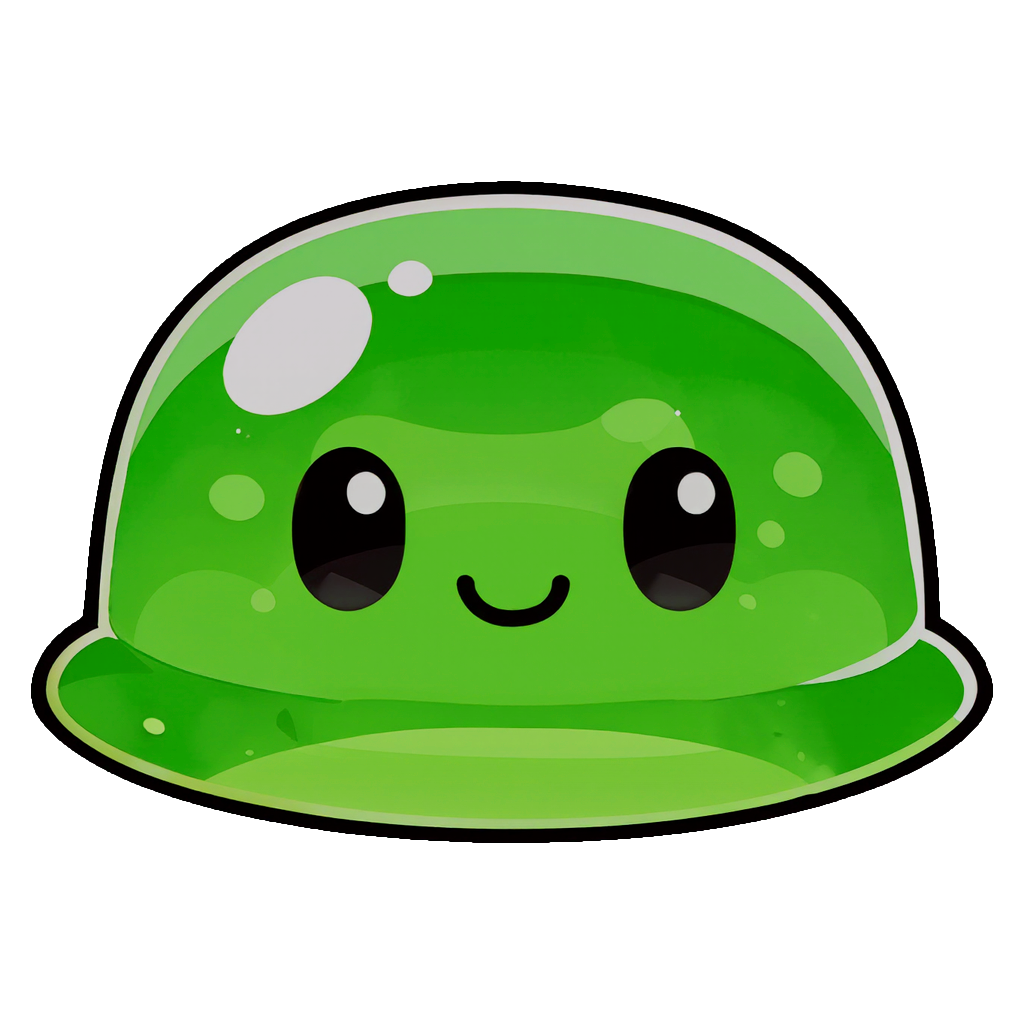
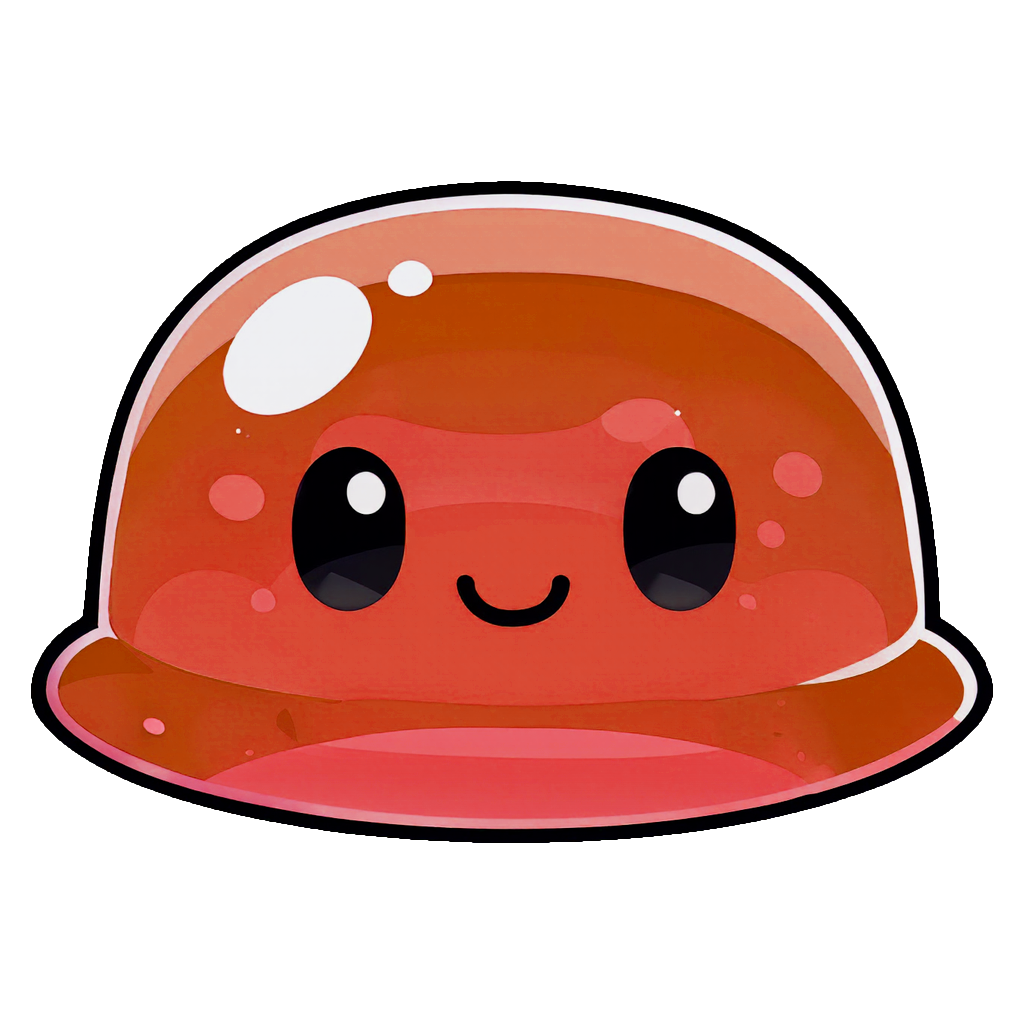
feel(round9): gold-run style forgiveness and pacing; bold dark outlines; red slime obstacle; opening no longer forced
- player hitbox 65% (crouch half), obstacle hazard capsule 70%
- lane change 0.20 s ease-out, swipe buffer 0.25 s, coyote 0.12 s
- speed: +6% step every 30 s, cap 1.7x base, smooth 1.5 m/s^2 between steps
- painted props: dark navy outline 3-8 texels, crisp alpha edge; heart/star/potion outlined
- Obs_Slime recoloured coral-red (avoid = red, collect = yellow/green)
- opening cinematic only via More > Opening (+ one-time title hint)

Claude-Session: https://claude.ai/code/session_01Y9BB1uU9eKsM2MoxCscQ6S

diff --git a/Assets/_CoastRun/Scripts/Player/PlayerController.cs b/Assets/_CoastRun/Scripts/Player/PlayerController.cs
@@ -44,6 +44,7 @@ namespace CoastRun
         private float _softHitTimer;
         private float _inputFreezeTimer;
         private float _coyoteTimer;     // grace after leaving ground where a jump still counts
+        private float _runClock;        // 14차-9: 계단식 가속용 런 경과 시간
         private float _laneFrom;        // lane easing: where the last change started
         private float _laneT = 1f;      // 0..1 progress of the current lane change
         private bool _tucking;
@@ -56,7 +57,7 @@ namespace CoastRun
         /// 레인 이동 속도(m/s, +우). 리그가 몸을 기울이는 데 쓴다.
         public float LateralVelocity { get; private set; }
         /// 레인 이동 시간 배율 (config.laneChangeSeconds × 이 값). 0.15s 기본에 2.0 → 0.30s.
-        public const float LaneEaseScale = 1.2f;   // 14차: 0.30s → 0.18s — 스와이프에 '착' 붙는 스냅
+        public const float LaneEaseScale = 1.35f;   // 14차-9: 0.20s ease-out (골드런 0.18~0.22s)
 
         private CapsuleCollider _bodyCollider;
 
@@ -125,6 +126,7 @@ namespace CoastRun
             {
                 _bodyHeight = config.standHeight;
                 _speed = config.baseSpeed;
+            _runClock = 0f;
                 _hop = _groundY + _bodyHeight * 0.5f;
             }
 
@@ -154,6 +156,7 @@ namespace CoastRun
             }
 
             _speed = config.baseSpeed;
+            _runClock = 0f;
             _bodyHeight = config.standHeight;
             _groundY = 0f;
             if (DebugGod) Invincible = true;
@@ -254,7 +257,12 @@ namespace CoastRun
             // v2 이동 모드: 스케이트보드는 기본·최대·가속 모두 ×1.3 (규칙은 동일, 반응 시간만 짧다).
             float mode = RunTuning.SpeedMul * ChapterDifficulty.SpeedMul;
             float maxSpeed = (upgrades != null ? upgrades.GetMaxSpeed() : config.maxSpeed) * mode;
-            float target = Mathf.Min(maxSpeed, _speed + config.accelPerSecond * mode * Time.deltaTime);
+            // 14차-9: 선형 가속 → 30초마다 +6% 계단(골드런/서브웨이 방식). 후반이 '반응 불가'로 치닫지 않고,
+            // 속도 상한은 기본의 1.7배(≈18.7 m/s)에서 멈춘다. 계단 사이는 1.5 m/s² 로 부드럽게 붙는다.
+            _runClock += Time.deltaTime;
+            int tier = Mathf.FloorToInt(_runClock / 30f);
+            float stepped = config.baseSpeed * mode * Mathf.Min(1.7f, 1f + 0.06f * tier);
+            float target = Mathf.Min(maxSpeed, stepped);
             if (_state == SkateState.SoftHit)
                 target = config.baseSpeed * mode * config.softHitSlowFactor;
 
@@ -263,7 +271,9 @@ namespace CoastRun
                 target *= config.tuckMultiplier;
             target *= Mathf.Max(0.1f, SpeedBoost);
 
-            _speed = Mathf.MoveTowards(_speed, target, 20f * Time.deltaTime);
+            // 계단 사이는 1.5 m/s² 로 붙고, 부스터 아이템·감속은 즉시.
+            float rate = (target > _speed && SpeedBoost <= 1.01f) ? 1.5f : 20f;
+            _speed = Mathf.MoveTowards(_speed, target, rate * Time.deltaTime);
         }
 
         private void HandleInput()
@@ -405,17 +415,19 @@ namespace CoastRun
             //
             // Crouching drops the capsule instead of shrinking it in place, so ducking
             // actually moves the body under an overhead bar.
+            // 14차-9: 골드런식 관용 — 몸 판정을 그림의 65% 폭으로, 슬라이드 중엔 절반 높이.
+            // "안 닿은 것 같은데 죽었다"가 사라지고, 니어미스가 자주 나며 손맛이 붙는다.
             if (_state == SkateState.Crouch)
             {
-                _bodyCollider.height = 0.7f;
-                _bodyCollider.center = new Vector3(0f, -0.40f, 0f);
-                _bodyCollider.radius = 0.3f;
+                _bodyCollider.height = 0.55f;
+                _bodyCollider.center = new Vector3(0f, -0.47f, 0f);
+                _bodyCollider.radius = 0.2f;
             }
             else
             {
-                _bodyCollider.height = 1.5f;
-                _bodyCollider.center = Vector3.zero;
-                _bodyCollider.radius = 0.32f;
+                _bodyCollider.height = 1.3f;
+                _bodyCollider.center = new Vector3(0f, -0.05f, 0f);
+                _bodyCollider.radius = 0.21f;
             }
         }
 
@@ -435,7 +447,8 @@ namespace CoastRun
                 float dur = Mathf.Max(0.12f, config.laneChangeSeconds * LaneEaseScale * RunTuning.LaneMul);
                 _laneT = Mathf.Min(1f, _laneT + Time.deltaTime / dur);
                 float t = _laneT;
-                float e = t * t * t * (t * (t * 6f - 15f) + 10f);   // smootherstep
+                // 14차-9: ease-out(즉시 출발, 부드럽게 도착) — 스와이프 직후 몸이 바로 움직여 반응이 '붙는다'.
+                float e = 1f - (1f - t) * (1f - t) * (1f - t);
                 _lateral = Mathf.Lerp(_laneFrom, laneTarget, e);
             }
             else
@@ -458,7 +471,7 @@ namespace CoastRun
                     _state = SkateState.Run;
                     OnLanded?.Invoke();
                 }
-                _coyoteTimer = 0.1f;
+                _coyoteTimer = 0.12f;
             }
             else if (wasGrounded && _state != SkateState.Air)
             {
@@ -494,6 +507,7 @@ namespace CoastRun
             _bodyHeight = config.standHeight;
             _hop = _bodyHeight * 0.5f;
             _speed = config.baseSpeed;
+            _runClock = 0f;
             SnapToPath();
         }
 

diff --git a/Assets/_CoastRun/Scripts/UI/MainMenuController.cs b/Assets/_CoastRun/Scripts/UI/MainMenuController.cs
@@ -66,7 +66,9 @@ namespace CoastRun
 
             BuildSplashAndUi();
             // 11차: 오프닝은 게임을 켤 때마다 타이틀 앞에서(건너뛰기 버튼). 씬 재로드(언어 전환 등)에는 안 나온다.
-            bool firstLaunch = !_openingShownThisSession;
+            // 14차-9: 오프닝 강제 재생 제거 — 첫 실행에서 1분 37초 영상은 글로벌 캐주얼 기준 이탈 1순위.
+            // 오프닝은 더보기 > 오프닝, 또는 첫 런을 마친 뒤 제안(GameSession)으로만 본다.
+            bool firstLaunch = false;
             _openingShownThisSession = true;
             if (firstLaunch && _gateArt != null)
             {
@@ -392,6 +394,14 @@ namespace CoastRun
             _moreBtn = CoastOrnate.GlassButton(ui.transform, "MoreBtn", Loc.T("더보기", "More"), new Vector2(0.5f, 0f),
                 new Vector2(btnW + gapX, rowY), new Vector2(btnW, btnH), () => { if (_ready) ToggleMore(); }, 0.4f, 26, false);
             _moreLabel = _moreBtn.GetComponentInChildren<Text>();
+            // 14차-9: 오프닝을 안 본 유저에게 한 줄 힌트(강제 재생 대신)
+            if (PlayerPrefs.GetInt("CoastRun_OpeningSeen", 0) == 0)
+            {
+                _openingHint = CreateLabel(ui.transform, "OpeningHint", Loc.T("이야기가 궁금하면  더보기 › 오프닝", "Curious about the story?  More › Opening"), 17, FontStyle.Normal,
+                    new Color(1f, 0.96f, 0.86f, 0.9f), new Vector2(0.5f, 0f), new Vector2(600f, 26f));
+                _openingHint.rectTransform.anchoredPosition = new Vector2(0f, rowY + btnH * 0.5f + 20f);
+                CoastUiArt.OutlineText(_openingHint, new Color(0.2f, 0.1f, 0.06f, 0.85f), 1.5f);
+            }
 
             // 더보기 열: 오른쪽 가장자리에서 슬라이드 인. 챕터 선택 / 노을 달리기 / 컬렉션 / 오프닝 / 설정.
             var more = new System.Collections.Generic.List<(string, System.Action)>();
@@ -402,6 +412,8 @@ namespace CoastRun
             {
                 _audio?.PlayClick();
                 _audio?.StopMenu();
+                PlayerPrefs.SetInt("CoastRun_OpeningSeen", 1);
+                if (_openingHint != null) _openingHint.gameObject.SetActive(false);
                 _ready = false;
                 OpeningCinematic.Play(() => { if (this == null) return; _audio?.PlayMenu(_cleared); _ready = true; });
             }));
@@ -870,7 +882,7 @@ namespace CoastRun
         }
 
         // 14차-8: 더보기 슬라이드
-        private Button _moreBtn; private Text _moreLabel;
+        private Button _moreBtn; private Text _moreLabel; private Text _openingHint;
         private RectTransform _moreRt; private CanvasGroup _moreCg;
         private Vector2 _moreHidden, _moreShown; private bool _moreOpen; private float _moreT;
 

diff --git a/Assets/_CoastRun/Scripts/Content/ObstacleCatalog.cs b/Assets/_CoastRun/Scripts/Content/ObstacleCatalog.cs
@@ -55,7 +55,7 @@ namespace CoastRun
                         new Vector3(0.95f, 0.48f, 0.22f), () => CoastPalette.AccentOrange, 0.32f, 0.55f, 0.55f, "Barrier", 0.9f);
                 case ObstacleId.Slime:
                     return CreateSimple(parent, worldPos, lane, "Obstacle_Slime",
-                        new Vector3(0.95f, 0.85f, 0.95f), () => new Color(0.45f, 0.82f, 0.38f), 0.42f, 0.75f, 0.9f, "Slime", 1.15f);   // 14차-8: 말랑이 1.2배(무릎 높이 이상, 코인보다 크게)
+                        new Vector3(0.95f, 0.85f, 0.95f), () => new Color(0.95f, 0.36f, 0.30f), 0.42f, 0.75f, 0.9f, "Slime", 1.15f);   // 14차-9: 장애물은 빨강 계열(색 규칙)   // 14차-8: 말랑이 1.2배(무릎 높이 이상, 코인보다 크게)
                 case ObstacleId.CrateStack:
                 case ObstacleId.DeliveryBox:
                     return CreateSimple(parent, worldPos, lane, "Obstacle_Crate",
@@ -205,8 +205,9 @@ namespace CoastRun
             hard.transform.localPosition = new Vector3(0f, hardH * 0.5f, 0f);
             var hardCol = hard.AddComponent<CapsuleCollider>();
             hardCol.isTrigger = true;
-            hardCol.radius = hardR;
-            hardCol.height = hardH;
+            // 14차-9: 장애물 판정도 그림의 70% — 가장자리 스침은 '니어미스'로 보상된다.
+            hardCol.radius = hardR * 0.7f;
+            hardCol.height = hardH * 0.9f;
             var hazard = hard.AddComponent<ObstacleHazard>();
 
             var near = new GameObject("NearMiss");

diff --git a/Assets/_CoastRun/Scripts/Economy/JellyPickup.cs b/Assets/_CoastRun/Scripts/Economy/JellyPickup.cs
@@ -63,12 +63,12 @@ namespace CoastRun
             switch (kind)
             {
                 case PickupKind.Potion:
-                    if (PaintedProp.Available("Potion")) PaintedProp.Attach(vis, "Potion", 0.9f, replace: false);
+                    if (PaintedProp.Available("Potion")) PaintedProp.Attach(vis, "Potion", 0.9f, replace: false, outline: true);
                     else BuildPotion(vis);
                     radius = 0.6f;
                     break;
                 case PickupKind.BonusStar:
-                    if (PaintedProp.Available("Star")) PaintedProp.Attach(vis, "Star", 1.1f, replace: false);
+                    if (PaintedProp.Available("Star")) PaintedProp.Attach(vis, "Star", 1.1f, replace: false, outline: true);
                     else BuildStar(vis);
                     radius = 0.8f;
                     break;
@@ -77,7 +77,7 @@ namespace CoastRun
                     radius = 0.6f;
                     break;
                 case PickupKind.Heart:
-                    if (PaintedProp.Available("Heart")) PaintedProp.Attach(vis, "Heart", 0.8f, replace: false);
+                    if (PaintedProp.Available("Heart")) PaintedProp.Attach(vis, "Heart", 0.8f, replace: false, outline: true);
                     else BuildHeart(vis);
                     radius = 0.7f;
                     break;

diff --git a/Assets/_CoastRun/Scripts/Economy/ObstacleSpawner.cs b/Assets/_CoastRun/Scripts/Economy/ObstacleSpawner.cs
@@ -29,7 +29,7 @@ namespace CoastRun
         [Tooltip("Seconds the player gets to see a row and react before reaching it.")]
         [SerializeField] private float reactionSeconds = 0.55f;
         [Tooltip("Extra seconds allowed per lane change needed to reach a safe lane.")]
-        [SerializeField] private float laneChangeSeconds = 0.32f;   // 7차: 레인 이동 0.30s 에 맞춤
+        [SerializeField] private float laneChangeSeconds = 0.22f;   // 14차-9: 레인 이동 0.20s ease-out 에 맞춤
         [Tooltip("Base gap between rows at the start of a stage, in seconds of travel.")]
         [SerializeField] private float rowGapSecondsStart = 1.4f;
         [Tooltip("Base gap at the end of a stage. Never goes below the reaction floor.")]

diff --git a/Assets/_CoastRun/Scripts/Rendering/PaintedProp.cs b/Assets/_CoastRun/Scripts/Rendering/PaintedProp.cs
@@ -47,8 +47,9 @@ namespace CoastRun
             if (outline && mat.HasProperty("_OutlineOn"))
             {
                 mat.SetFloat("_OutlineOn", 1f);
-                mat.SetColor("_OutlineColor", Color.white);
-                mat.SetFloat("_OutlineWidth", Mathf.Clamp(tex.width / 180f, 3f, 9f));
+                // 14차-9: 흰 테두리는 밝은 배경에서 뿌옇게 번져 보였다 → 짙은 남색 굵은 선(레퍼런스의 볼드 아웃라인).
+                mat.SetColor("_OutlineColor", new Color(0.10f, 0.08f, 0.16f, 1f));
+                mat.SetFloat("_OutlineWidth", Mathf.Clamp(tex.width / 150f, 3f, 8f));
             }
             var mr = quad.GetComponent<Renderer>();
             mr.sharedMaterial = mat;

diff --git a/Assets/_CoastRun/Scripts/Input/MobileSwipeInput.cs b/Assets/_CoastRun/Scripts/Input/MobileSwipeInput.cs
@@ -28,7 +28,7 @@ namespace CoastRun
 
         [Header("Buffering")]
         [Tooltip("How long a swipe stays valid waiting for the player to be able to act on it.")]
-        [SerializeField] private float bufferSeconds = 0.15f;
+        [SerializeField] private float bufferSeconds = 0.25f;   // 14차-9: 선입력 버퍼 넉넉히
 
         private Vector2 _anchor;
         private Vector2 _lastPos;
